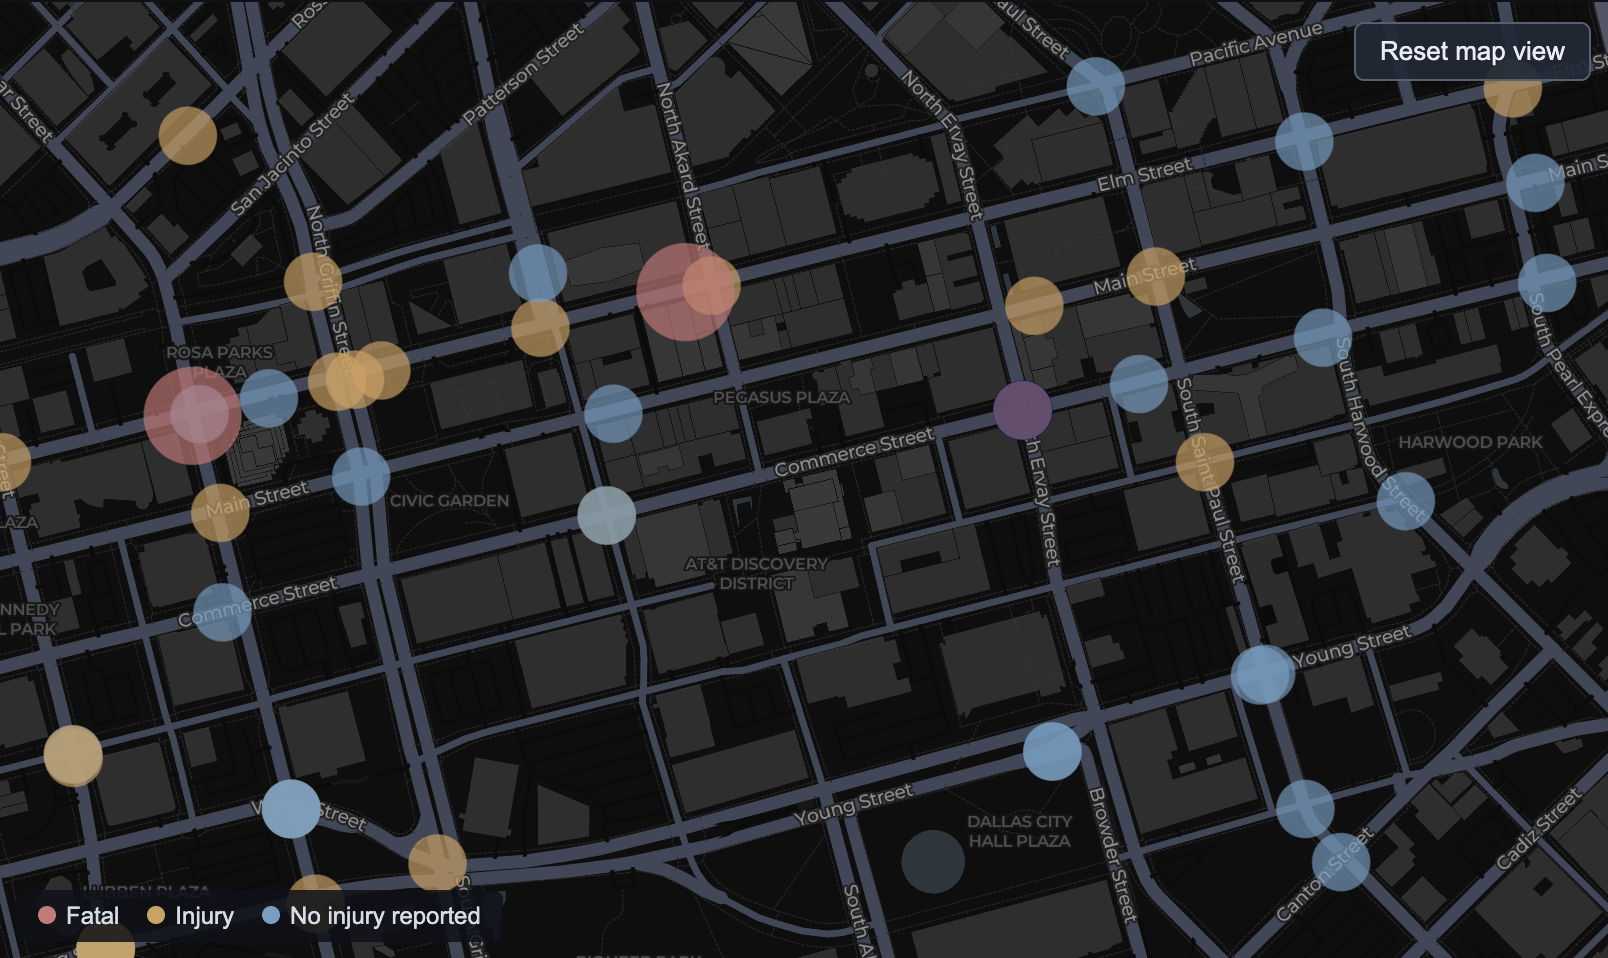
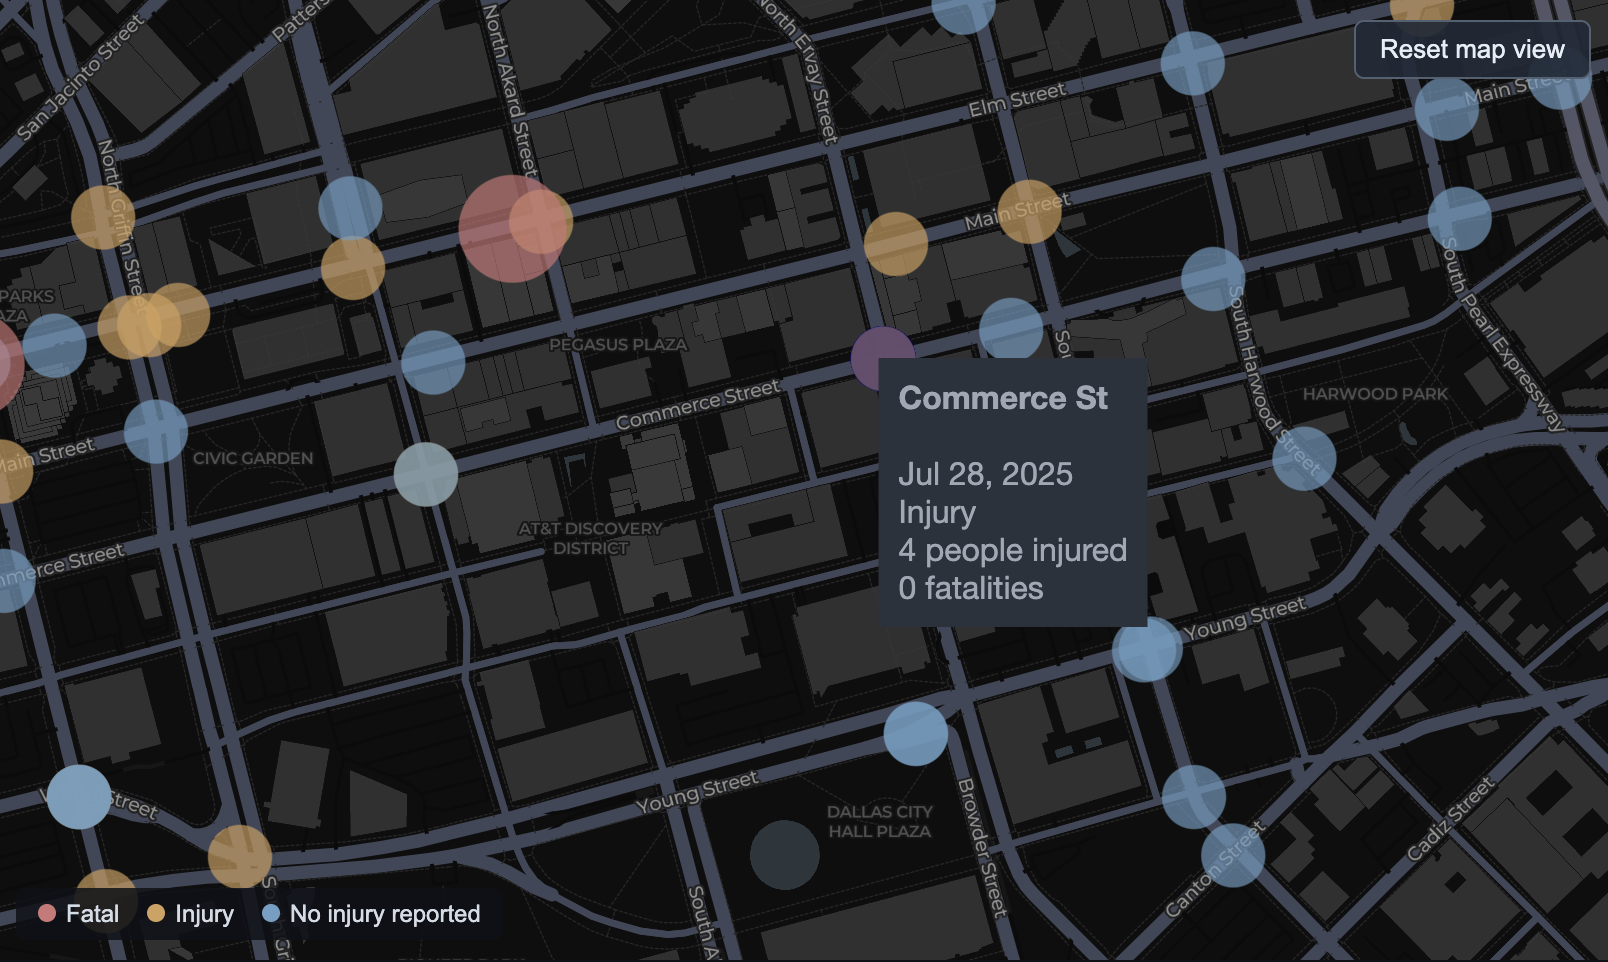
docs: showcase dashboard with updated screenshots

diff --git a/README.md b/README.md
@@ -1,35 +1,35 @@
 <h1 align="center">DFW Crash Map</h1>
 
-<p align="center">Explore where, when, and under what conditions traffic crashes happen across Dallas and Fort Worth.</p>
+<p align="center">An interactive look at reported traffic crashes across Dallas and Fort Worth, Texas.</p>
 
 <p align="center">
   <a href="https://dfw-crash-map-ujqh4w6674qx5pszdlthdb.streamlit.app/">Live dashboard</a>
   · <a href="https://github.com/rahemans/dfw-crash-map">Source code</a>
 </p>
 
-![DFW Crash Map — crash locations in downtown Dallas](assets/crash-mapview.png)
+![DFW Crash Map dashboard showing crash locations across Dallas and Fort Worth](assets/crash-pointmap.png)
+
+## Explore the map
+
+Zoom into individual streets, switch between points and a heatmap, or filter crashes by severity, year, weather, road type, and time of day. Crash markers show reported injury and fatality counts on hover.
+
+![Street-level view of crash markers in downtown Dallas](assets/crash-mapview.png)
+
+## See the patterns
+
+Go beyond locations with monthly trends, hourly and weekday breakdowns, roadway rankings, and comparisons between Dallas and Fort Worth. Export street rankings as CSV.
+
+![DFW Crash Map charts showing crash trends and analysis](assets/crash-trends.png)
 
 ## Why I built it
 
-Driving around DFW can be an experience, especially during rush hour. I wanted to go beyond complaining about traffic and see what the crash data actually showed.
-
-So I built DFW Crash Map using reported crash records from the Texas Department of Transportation (TxDOT).
-
-## What you can explore
-
-- **Crash locations:** Switch between individual crash points and a hotspot heatmap. Filter for crashes involving injuries or fatalities, and inspect reported injury and fatality counts.
-- **Filters:** Explore Dallas, Fort Worth, or both by year, weather, road type, and time of day.
-- **Time patterns:** Compare crashes by month, hour, weekday, and hour-by-weekday combinations.
-- **Roadway patterns:** Explore the streets with the most reported crashes, injury crashes, or fatal crashes, and export rankings as CSV.
-- **City and year comparisons:** Compare reported crash patterns across Dallas and Fort Worth and avoid treating partial-year exports as complete years.
-
-![DFW Crash Map — crash trends and charts](assets/crash-trends.png)
+If you've driven around DFW, you know traffic can be an experience. I wanted to go beyond complaining about it and see what the crash data actually showed. That idea became DFW Crash Map.
 
 ## Built with
 
 **Python** · **Streamlit** · **pandas** · **NumPy** · **Plotly** · **PyDeck**
 
-The app cleans TxDOT CRIS exports and uses optional Parquet caching to make repeat loads faster. Map points are sampled when needed for performance, while fatal-crash points are retained.
+The dashboard uses Texas Department of Transportation (TxDOT) Crash Records Information System (CRIS) data. It cleans the exports, caches processed data when possible, and samples nonfatal points for map performance while retaining all fatal-crash points.
 
 ## Run locally
 
@@ -42,7 +42,7 @@ python3 -m pip install -r requirements.txt
 python3 -m streamlit run app.py
 ```
 
-You'll need TxDOT CRIS CSV exports in the `Data/` folder, preserving the original field names:
+Add your TxDOT CRIS CSV exports to `Data/`, retaining the original column names:
 
 ```text
 Data/
@@ -50,22 +50,20 @@ Data/
 └── forthworth_crashes_2024_2026.csv
 ```
 
-The `forthworth` spelling matches the filename expected by the app. Either city can load independently; both files are needed for combined views. On Windows, activate the virtual environment with `.venv\Scripts\Activate.ps1` instead.
+The `forthworth` filename matches the path expected by the app. Either city can run on its own; both files are needed for the combined view. On Windows, activate the environment with `.venv\Scripts\Activate.ps1` instead.
 
-### Tests
+To run the automated tests:
 
 ```bash
 python3 -m pip install pytest
 python3 -m pytest -q tests/test_crash_logic.py
 ```
 
-## About the data
+## A note on the data
 
-**Source:** Texas Department of Transportation, Crash Records Information System (CRIS), configured for 2024–2026 exports. The latest year may be incomplete.
+The app covers the dates available in the 2024–2026 CRIS exports, which may include partial years. Only crashes with usable coordinates appear on the map; charts can include additional records. Injury and fatal crash categories can overlap.
 
-The map shows records with usable coordinates; other charts may include records without map locations. Injury and fatal crash categories can overlap. Individual points may be sampled for performance, but fatal-crash points are retained.
-
-**Reported crash counts are not traffic-adjusted risk.** A road with more recorded crashes is not necessarily more dangerous per driver, mile, or trip. The dashboard does not predict crashes or determine fault.
+**Crash concentration is not the same as risk.** These counts are not adjusted for traffic volume, miles driven, or road length, and the app does not predict future crashes or determine fault.
 
 ---
 
